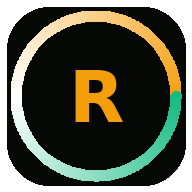
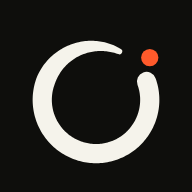
Nouveau nom : Ensō, avec sa nouvelle icône
Nom affiché, icônes de l'écran d'accueil et des notifications, textes visibles.
Clés de stockage, format des sauvegardes et clés Polar inchangés.

Claude-Session: https://claude.ai/code/session_019mx6c39so1J7mdvPN6bVvz

diff --git a/index.html b/index.html
@@ -6,12 +6,12 @@
 <meta name="apple-mobile-web-app-capable" content="yes">
 <meta name="mobile-web-app-capable" content="yes">
 <meta name="apple-mobile-web-app-status-bar-style" content="black-translucent">
-<meta name="apple-mobile-web-app-title" content="RECOMP">
+<meta name="apple-mobile-web-app-title" content="Enso">
 <meta name="theme-color" content="#0E0E0C">
 <link rel="manifest" href="./manifest.json">
[2 lines of base64/hex data omitted]
-<title>RECOMP</title>
[2 lines of base64/hex data omitted]
+<title>Ensō</title>
 <link rel="preconnect" href="https://fonts.googleapis.com">
 <link rel="preconnect" href="https://fonts.gstatic.com" crossorigin>
 <link rel="stylesheet" href="https://fonts.googleapis.com/css2?family=Anton&family=Archivo:wdth,wght@62..125,400..800&display=swap">
@@ -31,7 +31,7 @@ var t = "nuit"; try { t = localStorage.getItem("recomp_theme") || "nuit"; } catc
 </head>
 <body>
 <div id="tourne" aria-live="polite"><svg viewBox="0 0 24 24" fill="none" stroke="currentColor" stroke-width="1.8" stroke-linecap="round" stroke-linejoin="round" aria-hidden="true"><rect x="7" y="2.5" width="10" height="19" rx="2"/><path d="M11 18.5h2"/></svg><b>Remets ton téléphone à la verticale</b><span>RECOMP s'utilise en format portrait.</span></div>
-<div id="root"><div id="boot"><b>RECOMP</b><span>Chargement…</span></div></div>
+<div id="root"><div id="boot"><b>ENSO</b><span>Chargement…</span></div></div>
 <div id="fatal"><b>Oups.</b><div style="font-size:16px;font-weight:700;line-height:1.4">Impossible de démarrer l'app.<br>Vérifie ta connexion puis réessaie.</div><div id="fatalmsg" style="font-size:12px;opacity:.75"></div><button onclick="recompReparer()">Réessayer</button></div>
 <script>
 /* Écran « impossible de démarrer » si un fichier ne charge pas ou plante avant le premier affichage */

diff --git a/reglages.js b/reglages.js
@@ -28,7 +28,7 @@ function FeuilleCapture() {
   const cherche = (t, kw) => sansAccent(t + " " + (kw || "")).includes(ql);
   const acts = ACTIONS.filter(a => !ql || cherche(a.t, a.kw)), dest = ql ? DESTINATIONS.filter(([t, , kw]) => cherche(t, kw)) : [];
   return h(Feuille, { titre: "Que veux-tu faire ?" },
-    h("input.recherche", { value: q, onChange: e => setQ(e.target.value), placeholder: "Chercher : poids, courses, sommeil…", "aria-label": "Chercher dans RECOMP", enterKeyHint: "search" }),
+    h("input.recherche", { value: q, onChange: e => setQ(e.target.value), placeholder: "Chercher : poids, courses, sommeil…", "aria-label": "Chercher dans Ensō", enterKeyHint: "search" }),
     h("div.gestes", acts.map(a => h("button", { key: a.t, onClick: () => lance(a.go) }, h(Icone, { n: a.i, t: 26 }), h("span", a.t)))),
     dest.length > 0 && h("div.liste", dest.map(([t, go]) => h("button.ligne", { key: t, onClick: () => lance(go) }, h("span", t), h(Icone, { n: "fleche", t: 16 })))),
     ql && !acts.length && !dest.length && h(Vide, null, "Rien pour « " + q.trim() + " ». Essaie poids, séance, courses ou sommeil."));
@@ -73,7 +73,7 @@ async function restaurer(fichier) {
 function calendrierIcs() {
   const pr = profil(), prog = programmeEnCours(), tDays = joursProgramme(prog), rDays = [0, 1, 2, 3, 4, 5, 6].filter(d => !tDays.includes(d));
   const CODES = ["SU", "MO", "TU", "WE", "TH", "FR", "SA"];
-  const ev = [{ t: "Réveil + créatine", h: pr.reveil, days: [0, 1, 2, 3, 4, 5, 6] }, { t: "Séance RECOMP", h: CRENEAUX[pr.creneau].seance, days: tDays }];
+  const ev = [{ t: "Réveil + créatine", h: pr.reveil, days: [0, 1, 2, 3, 4, 5, 6] }, { t: "Séance Ensō", h: CRENEAUX[pr.creneau].seance, days: tDays }];
   planDuJour("training").meals.forEach(m => ev.push({ t: m.m, h: m.h, days: tDays }));
   planDuJour("rest").meals.forEach(m => ev.push({ t: m.m, h: m.h, days: rDays }));
   const now = new Date(), loc = d => d.getFullYear() + pad2(d.getMonth() + 1) + pad2(d.getDate()) + "T" + pad2(d.getHours()) + pad2(d.getMinutes()) + "00";
@@ -115,7 +115,7 @@ function SectionDiscret() {
   return h(Section, null,
     h("div.interrupteurs",
       h(Interrupteur, { actif, titre: "Masquer mes montants", sous: "Flous par défaut dans Argent, sur l'écran Jour, dans le coach et le bilan. L'œil les affiche.", onClick: async () => { await setProfil({ discret: !actif }); Discret.appliquer(); } }),
-      actif && h(Interrupteur, { actif: avecFaceId, titre: charge ? "Un instant…" : "Avec Face ID", sous: possible === false ? "Pas disponible ici : ouvre RECOMP depuis son icône sur l'écran d'accueil." : "Demandé pour afficher, pas plus d'une fois toutes les 5 minutes", onClick: basculerFaceId })));
+      actif && h(Interrupteur, { actif: avecFaceId, titre: charge ? "Un instant…" : "Avec Face ID", sous: possible === false ? "Pas disponible ici : ouvre Ensō depuis son icône sur l'écran d'accueil." : "Demandé pour afficher, pas plus d'une fois toutes les 5 minutes", onClick: basculerFaceId })));
 }
 /* Banque : liaison en lecture seule, pour que tes opérations arrivent toutes seules dans Argent */
 function SectionBanque() {
@@ -149,7 +149,7 @@ function InterNotifs() {
   const basculer = async () => { if (charge) return; setCharge(true); try { await (actif ? couperNotifs() : activerNotifs()); } finally { setCharge(false); } };
   return h(Fragment, null,
     h(Interrupteur, { actif, titre: charge ? "Un instant…" : "Me prévenir", sous: "Quand une séance ou ta nuit arrive de ta montre", onClick: basculer }),
-    !notifsPossibles() && h("p.note", "Sur iPhone, les notifications ne marchent que si RECOMP est ouverte depuis son icône sur l'écran d'accueil."));
+    !notifsPossibles() && h("p.note", "Sur iPhone, les notifications ne marchent que si Ensō est ouverte depuis son icône sur l'écran d'accueil."));
 }
 /* Montre Polar : liaison par le service AccessLink, pour remplir la saisie du matin */
 function SectionPolar() {
@@ -160,7 +160,7 @@ function SectionPolar() {
       h("p.note", "Ta montre doit d'abord avoir synchronisé la nuit avec l'app Polar Flow."),
       h(EtatPas),
       h(InterNotifs),
-      h(Bouton, { cl: "danger-t", onClick: async () => { if (await confirmer({ titre: "Délier la montre Polar ?", message: "RECOMP ne pourra plus lire tes nuits. Tes saisies déjà faites restent.", oui: "Délier" })) delierPolar(); } }, "Délier la montre"))
+      h(Bouton, { cl: "danger-t", onClick: async () => { if (await confirmer({ titre: "Délier la montre Polar ?", message: "Ensō ne pourra plus lire tes nuits. Tes saisies déjà faites restent.", oui: "Délier" })) delierPolar(); } }, "Délier la montre"))
     : h(Fragment, null,
       h("p.texte-p", "Relie ton compte Polar pour remplir la saisie du matin d'un geste. Polar te demandera ton accord ; tes données ne sont stockées que sur ce téléphone."),
       h("div.deux-b",
@@ -213,9 +213,9 @@ function VerifMaj() {
     const r = await verifierMaj(true);
     if (r === "nouvelle-version" || r === "a-jour") { location.reload(); return; }
     setEtat(null);
-    toast(r === "sans" ? "Mise à jour impossible ici : ouvre RECOMP depuis l'écran d'accueil" : "Pas de réseau pour vérifier : réessaie plus tard", { danger: true });
+    toast(r === "sans" ? "Mise à jour impossible ici : ouvre Ensō depuis l'écran d'accueil" : "Pas de réseau pour vérifier : réessaie plus tard", { danger: true });
   };
-  return h("div.synchro", h("span", "RECOMP se met à jour tout seul. Si une nouveauté n'apparaît pas, touche ce bouton."),
+  return h("div.synchro", h("span", "Ensō se met à jour tout seul. Si une nouveauté n'apparaît pas, touche ce bouton."),
     h("button.mini", { disabled: etat === "cherche", onClick: lancer }, etat === "cherche" ? "Recherche…" : "Mettre à jour"));
 }
 // Une rubrique des réglages, sur sa propre page

diff --git a/polar-retour.html b/polar-retour.html
@@ -26,7 +26,7 @@
   const p = new URLSearchParams(location.search), code = p.get("code"), etat = p.get("state"), erreur = p.get("error");
   const m = document.getElementById("m");
   if (erreur || !code) {
-    m.innerHTML = '<h1>Liaison Polar</h1><p class="erreur">Polar n\'a pas donné son accord' + (erreur ? " (" + erreur.replace(/[<>&"]/g, "") + ")" : "") + '.</p><p>Retourne dans RECOMP, Réglages, et relance « Relier ma montre Polar ».</p>';
+    m.innerHTML = '<h1>Liaison Polar</h1><p class="erreur">Polar n\'a pas donné son accord' + (erreur ? " (" + erreur.replace(/[<>&"]/g, "") + ")" : "") + '.</p><p>Retourne dans Ensō, Réglages, et relance « Relier ma montre Polar ».</p>';
     return;
   }
   let attendu = null;
@@ -34,7 +34,7 @@
   // Même contexte que l'app : on lui rend la main directement
   if (attendu && attendu === etat) { location.replace("./?polar_code=" + encodeURIComponent(code)); return; }
   // Navigateur séparé : le code est à recopier dans l'app (valable 10 minutes)
-  m.innerHTML = '<h1>Presque fini</h1><p>Polar a donné son accord. Ce navigateur est séparé de ton app : copie ce <b>code de liaison</b>, puis retourne dans <b>RECOMP → Réglages → Montre Polar → « J\'ai un code »</b> et colle-le. Il est valable 10 minutes.</p><div class="code" id="c"></div><button id="b">Copier le code</button>';
+  m.innerHTML = '<h1>Presque fini</h1><p>Polar a donné son accord. Ce navigateur est séparé de ton app : copie ce <b>code de liaison</b>, puis retourne dans <b>Ensō → Réglages → Montre Polar → « J\'ai un code »</b> et colle-le. Il est valable 10 minutes.</p><div class="code" id="c"></div><button id="b">Copier le code</button>';
   document.getElementById("c").textContent = code;
   document.getElementById("b").onclick = async () => {
     try { await navigator.clipboard.writeText(code); document.getElementById("b").textContent = "Code copié"; }

diff --git a/banque-retour.html b/banque-retour.html
@@ -27,7 +27,7 @@
   const m = document.getElementById("m");
   if (erreur || !code) {
     const detail = (p.get("error_description") || erreur || "").replace(/[<>&"]/g, "");
-    m.innerHTML = '<h1>Liaison bancaire</h1><p class="erreur">La liaison n\'a pas abouti' + (detail ? " (" + detail + ")" : "") + '.</p><p>Retourne dans RECOMP, Réglages, Banque, et relance « Relier ma banque ».</p>';
+    m.innerHTML = '<h1>Liaison bancaire</h1><p class="erreur">La liaison n\'a pas abouti' + (detail ? " (" + detail + ")" : "") + '.</p><p>Retourne dans Ensō, Réglages, Banque, et relance « Relier ma banque ».</p>';
     return;
   }
   let attendu = null;
@@ -35,7 +35,7 @@
   // Même contexte que l'app : on lui rend la main directement
   if (attendu && attendu === etat) { location.replace("./?banque_code=" + encodeURIComponent(code)); return; }
   // Navigateur séparé : le code est à recopier dans l'app (valable 10 minutes)
-  m.innerHTML = '<h1>Presque fini</h1><p>Ta banque a donné son accord. Ce navigateur est séparé de ton app : copie ce <b>code de liaison</b>, puis retourne dans <b>RECOMP → Réglages → Banque → « J\'ai un code »</b> et colle-le. Il n\'est valable que quelques minutes.</p><div class="code" id="c"></div><button id="b">Copier le code</button>';
+  m.innerHTML = '<h1>Presque fini</h1><p>Ta banque a donné son accord. Ce navigateur est séparé de ton app : copie ce <b>code de liaison</b>, puis retourne dans <b>Ensō → Réglages → Banque → « J\'ai un code »</b> et colle-le. Il n\'est valable que quelques minutes.</p><div class="code" id="c"></div><button id="b">Copier le code</button>';
   document.getElementById("c").textContent = code;
   document.getElementById("b").onclick = async () => {
     try { await navigator.clipboard.writeText(code); document.getElementById("b").textContent = "Code copié"; }

diff --git a/polar.js b/polar.js
@@ -236,10 +236,10 @@ const texteB64u = b => b ? btoa(String.fromCharCode(...new Uint8Array(b))).repla
 async function activerNotifs() {
   const l = lienPolar();
   if (!l?.jeton) return toast("Relie d'abord ta montre", { danger: true });
-  if (!notifsPossibles()) return toast("Ajoute d'abord RECOMP à ton écran d'accueil (Partager → Sur l'écran d'accueil), puis ouvre-la depuis l'icône.", { danger: true });
+  if (!notifsPossibles()) return toast("Ajoute d'abord Ensō à ton écran d'accueil (Partager → Sur l'écran d'accueil), puis ouvre-la depuis l'icône.", { danger: true });
   // La demande d'autorisation doit partir tout de suite après le toucher
   const perm = await Notification.requestPermission();
-  if (perm !== "granted") return toast("Notifications refusées. Tu peux les autoriser dans Réglages de l'iPhone → Notifications → RECOMP.", { danger: true });
+  if (perm !== "granted") return toast("Notifications refusées. Tu peux les autoriser dans Réglages de l'iPhone → Notifications → Enso.", { danger: true });
   try {
     const { cle } = await fetch(POLAR_FN + "?action=cle-push", { cache: "no-store" }).then(r => r.json());
     if (!cle) throw new Error("clé absente");
@@ -419,7 +419,7 @@ async function diagnosticSortie(id) {
       }
     }
   } catch (e) { l.push("Fichier FIT : erreur " + e.message); }
-  return "Diagnostic RECOMP, séance " + id + "\n" + l.join("\n");
+  return "Diagnostic Ensō, séance " + id + "\n" + l.join("\n");
 }
 
 /* PAS — le résumé d'activité de chaque jour, lu chez Polar (il garde les 28 derniers jours).

diff --git a/ecran-sorties.js b/ecran-sorties.js
@@ -256,11 +256,11 @@ function FeuilleSortie({ id }) {
   const f = familleSortie(s), lie = logDeSortie(s);
   return h(Feuille, { titre: nomSortie(s), ton: "sport" },
     h("p.sous-t", dateLongue(s.dateISO) + (s.debut ? " à " + s.debut.slice(11, 16) : "") + (s.appareil ? " · " + s.appareil : "")),
-    lie?.t === "s" && h(Rangee, { ico: "sport", titre: "Ta séance " + lie.log.seance, sous: "Charges et séries notées dans RECOMP", onClick: () => Nav.sheet("seanceDetail", { id: lie.log.id }) }),
+    lie?.t === "s" && h(Rangee, { ico: "sport", titre: "Ta séance " + lie.log.seance, sous: "Charges et séries notées dans Ensō", onClick: () => Nav.sheet("seanceDetail", { id: lie.log.id }) }),
     lie?.t === "n" && h(Rangee, { ico: "nage", titre: "Dans ta natation", sous: entier(lie.log.distance) + " m notés le " + dateMini(lie.log.dateISO) + ", touche pour corriger", onClick: () => Nav.sheet("nage", { id: lie.log.id }) }),
     h(BlocMontre, { s }),
     f === "nage" && !lie && s.distance > 0 && h(Bouton, { cl: "plein", ico: "nage", onClick: () => ajouterANatation(s) }, "Ajouter à ma natation"),
     h("p.note", "Les calories et la charge sont celles calculées par ta montre. Ces séances ne changent pas ton score de forme."),
     h(Diagnostic, { id: s.id }),
-    h(Bouton, { cl: "contour danger-t", onClick: () => { Nav.fermer(); retirerSortie(s.id); } }, "Retirer de RECOMP"));
+    h(Bouton, { cl: "contour danger-t", onClick: () => { Nav.fermer(); retirerSortie(s.id); } }, "Retirer d'Ensō"));
 }

diff --git a/jour.js b/jour.js
@@ -64,7 +64,7 @@ function Coach() {
     ["J'ai mal", () => Nav.sheet("douleur")], ["Où j'en suis ?", () => Nav.sheet("bilan")], ["Quoi manger ?", () => setRep(repondre("manger"))], ["Je peux charger ?", () => setRep(repondre("charger"))], ["Changer de séance", () => Nav.sheet("choisir")],
   ];
   return h("section.coach",
-    h("header", h("i", "R"), h("b", "Ton coach")),
+    h("header", h("i", "E"), h("b", "Ton coach")),
     vus.map(m => h("div.msg", { key: m.id }, h("p", m.t), m.acts && h("div.msg-a", m.acts.map((a, i) => h("button", { key: i, className: i === 0 ? "pr" : "", onClick: a.run }, a.l))))),
     !tout && msgs.length > 3 && h("button.coach-plus", { onClick: () => setTout(true) }, pluriel(msgs.length - 3, "autre message", "autres messages")),
     rep && h("div.msg.rep", h("p", rep)),
@@ -141,7 +141,7 @@ function EcranJour() {
   const auj = aujourdhui(), [iso, setIso] = useState(auj), r = iso === auj;
   return h("div.page", { "data-t": "jour" },
     h("header.entete",
-      h("div", h("small", dateLongue(iso)), h("h1.logo", "RECOMP")),
+      h("div", h("small", dateLongue(iso)), h("h1.logo", "ENSO")),
       h("button.rond", { onClick: () => Nav.sheet("reglages"), "aria-label": "Réglages" }, h(Icone, { n: "reglages", t: 22 }))),
     h(BandeSemaine, { iso, setIso }),
     r && h(Affiches),

diff --git a/cle-banque.html b/cle-banque.html
@@ -67,7 +67,7 @@
     r.appendChild(bloc("EB_APP_ID", "C'est le nom du fichier. Dans Netlify, colle-le comme valeur de <b>EB_APP_ID</b>.", id));
     r.appendChild(bloc("EB_PRIVATE_KEY", "Ta clé, mise sur une seule ligne pour que Netlify l'accepte. Dans Netlify, <b>remplace</b> la valeur de <b>EB_PRIVATE_KEY</b> par celle-ci (garde « Contains secret values » coché).", cle, cle.slice(0, 24) + "… (" + cle.length + " caractères)"));
     const fin = document.createElement("section"); fin.style.display = "grid"; fin.style.gap = "8px";
-    fin.innerHTML = "<h2>Ensuite</h2><ol><li>Dans Netlify : <b>Deploys → Trigger deploy → Deploy site</b>.</li><li>Attends une minute, puis dans RECOMP : <b>Réglages → Banque → Relier ma banque</b>.</li><li>Tu peux ensuite effacer le texte copié : colle n'importe quoi d'autre par-dessus.</li></ol>";
+    fin.innerHTML = "<h2>Ensuite</h2><ol><li>Dans Netlify : <b>Deploys → Trigger deploy → Deploy site</b>.</li><li>Attends une minute, puis dans Ensō : <b>Réglages → Banque → Relier ma banque</b>.</li><li>Tu peux ensuite effacer le texte copié : colle n'importe quoi d'autre par-dessus.</li></ol>";
     r.appendChild(fin);
   };
 })();

diff --git a/corps.js b/corps.js
@@ -274,7 +274,7 @@ function FeuilleBilan() {
     { ton: "argent", e: "Ton argent", g: Discret.cache() ? h(PointsG) : entier(b.depense), u: "€", p: "dépensés en 7 jours. Il te reste " + eurosD(Math.max(0, bilanCourant().reste)) + (bilanCourant().civil ? " ce mois-ci." : " jusqu'à ta paye.") },
     // Une fois par semaine, la sauvegarde (sauf si elle est récente)
     ...(ageSauvegarde() == null || ageSauvegarde() >= 6 ? [{ ton: "papier", e: "Ta sauvegarde", g: ageSauvegarde() == null ? "Jamais" : ageSauvegarde() + " j", u: ageSauvegarde() == null ? "" : "sans", sauve: true,
-      p: "Tout RECOMP vit sur ce téléphone. Sauvegarde, puis choisis « Enregistrer dans Fichiers » et un dossier iCloud Drive : même si tu perds ton téléphone, tu retrouves tout." }] : []),
+      p: "Tout Ensō vit sur ce téléphone. Sauvegarde, puis choisis « Enregistrer dans Fichiers » et un dossier iCloud Drive : même si tu perds ton téléphone, tu retrouves tout." }] : []),
     { ton: "noir", e: "Ma décision", g: decision.g, u: decision.u, p: decision.t, fin: true },
   ];
   const e = ecrans[i];

diff --git a/banque.js b/banque.js
@@ -274,7 +274,7 @@ async function fusionnerDoublons() {
 function diagnosticArgent() {
   const b = bilanCourant(), l = lienBanque(), d = x => x.dateISO.slice(8) + "/" + x.dateISO.slice(5, 7), e = v => nb(v, 2) + " €";
   const origine = x => (x.banque ? "banque" : "à la main") + (x.attente ? ", en cours" : "");
-  const lignes = ["Diagnostic Argent RECOMP", "Période : " + nomPeriode(b) + (b.civil ? " (mois civil, aucune paye reconnue)" : "")];
+  const lignes = ["Diagnostic Argent Ensō", "Période : " + nomPeriode(b) + (b.civil ? " (mois civil, aucune paye reconnue)" : "")];
   const incs = DB.get("fin-income").filter(x => dansPeriode(x, b));
   lignes.push("Revenus de la période (" + e(b.rev) + ") :");
   incs.forEach(x => lignes.push("  " + d(x) + "  " + e(x.montant) + "  " + origine(x) + (x.paye ? ", paye" : "") + "  « " + String(x.source || "").slice(0, 14) + " »"));

diff --git a/sw.js b/sw.js
@@ -172,7 +172,7 @@ self.addEventListener("push", e => {
   try { m = e.data ? e.data.json() : {}; } catch (x) { /* message illisible : notification générique */ }
   e.waitUntil((async () => {
     if (m.seance) { const r = await resumeSeance(m.seance); if (r) Object.assign(m, r); }
-    await self.registration.showNotification(m.titre || "RECOMP", { body: m.corps || "", tag: m.tag || undefined, icon: "./icon-192.png", data: { ouvrir: m.ouvrir || "" } });
+    await self.registration.showNotification(m.titre || "Ensō", { body: m.corps || "", tag: m.tag || undefined, icon: "./icon-192.png", data: { ouvrir: m.ouvrir || "" } });
   })());
 });
 // Toucher la notification : ouvre l'app (ou la ramène devant) sur le bon écran

diff --git a/kit.js b/kit.js
@@ -301,7 +301,7 @@ function PastilleMaj() {
   const [prete, setPrete] = useState(MiseAJour.prete);
   useEffect(() => bus.on("maj", () => setPrete(true)), []);
   if (!prete) return null;
-  return h("div.maj-p", { role: "status" }, h("span", "Nouvelle version de RECOMP prête"), h("button", { onClick: () => location.reload() }, "Afficher"));
+  return h("div.maj-p", { role: "status" }, h("span", "Nouvelle version d'Ensō prête"), h("button", { onClick: () => location.reload() }, "Afficher"));
 }
 
 /* Ouvre un onglet directement sur une de ses rubriques */
